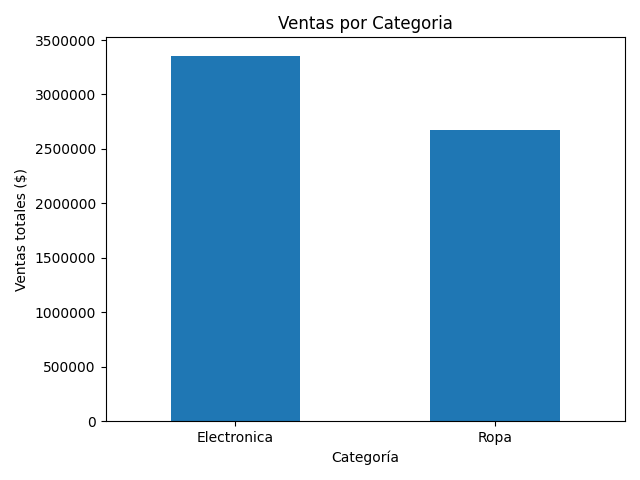
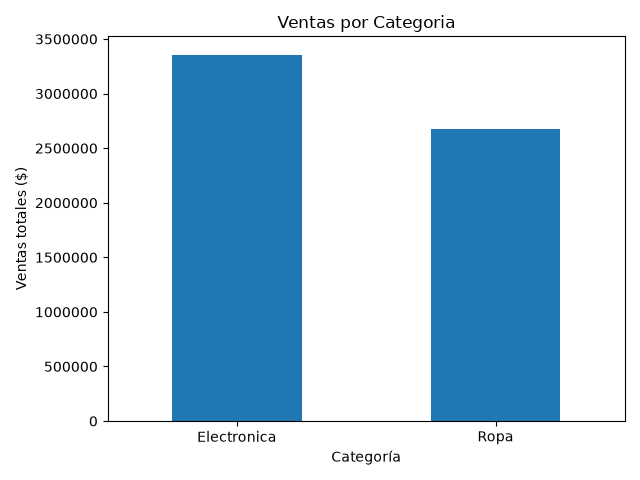
feat: agregar análisis de precio  promedio y transacciones

diff --git a/bot.py b/bot.py
@@ -188,3 +188,25 @@ df_consolidado["dia_semana"] = df_consolidado["fecha"].dt.day_name()
 
 agrupacion_dias= df_consolidado.groupby('dia_semana')['precio_unitario'].sum()
 print(agrupacion_dias)
+
+
+# ============================================
+# NUEVO ANALISIS - agregar en la rama "mejoras"
+# ============================================
+
+# Pregunta 6: Precio promedio de venta por categoria
+precio_promedio_categoria = df_consolidado.groupby('categoria')['precio_unitario'].mean()
+print("Precio promedio por categoria:")
+print(precio_promedio_categoria)
+
+# Pregunta 7: Cantidad de transacciones por vendedor
+transacciones_por_vendedor = df_consolidado.groupby('vendedor')['precio_unitario'].count()
+print("Cantidad de transacciones por vendedor:")
+print(transacciones_por_vendedor)
+
+# Guardar este analisis extra en un nuevo archivo
+resumen_extra = pd.DataFrame({
+    'precio_promedio': precio_promedio_categoria
+})
+resumen_extra.to_excel("analisis_extra.xlsx")
+
